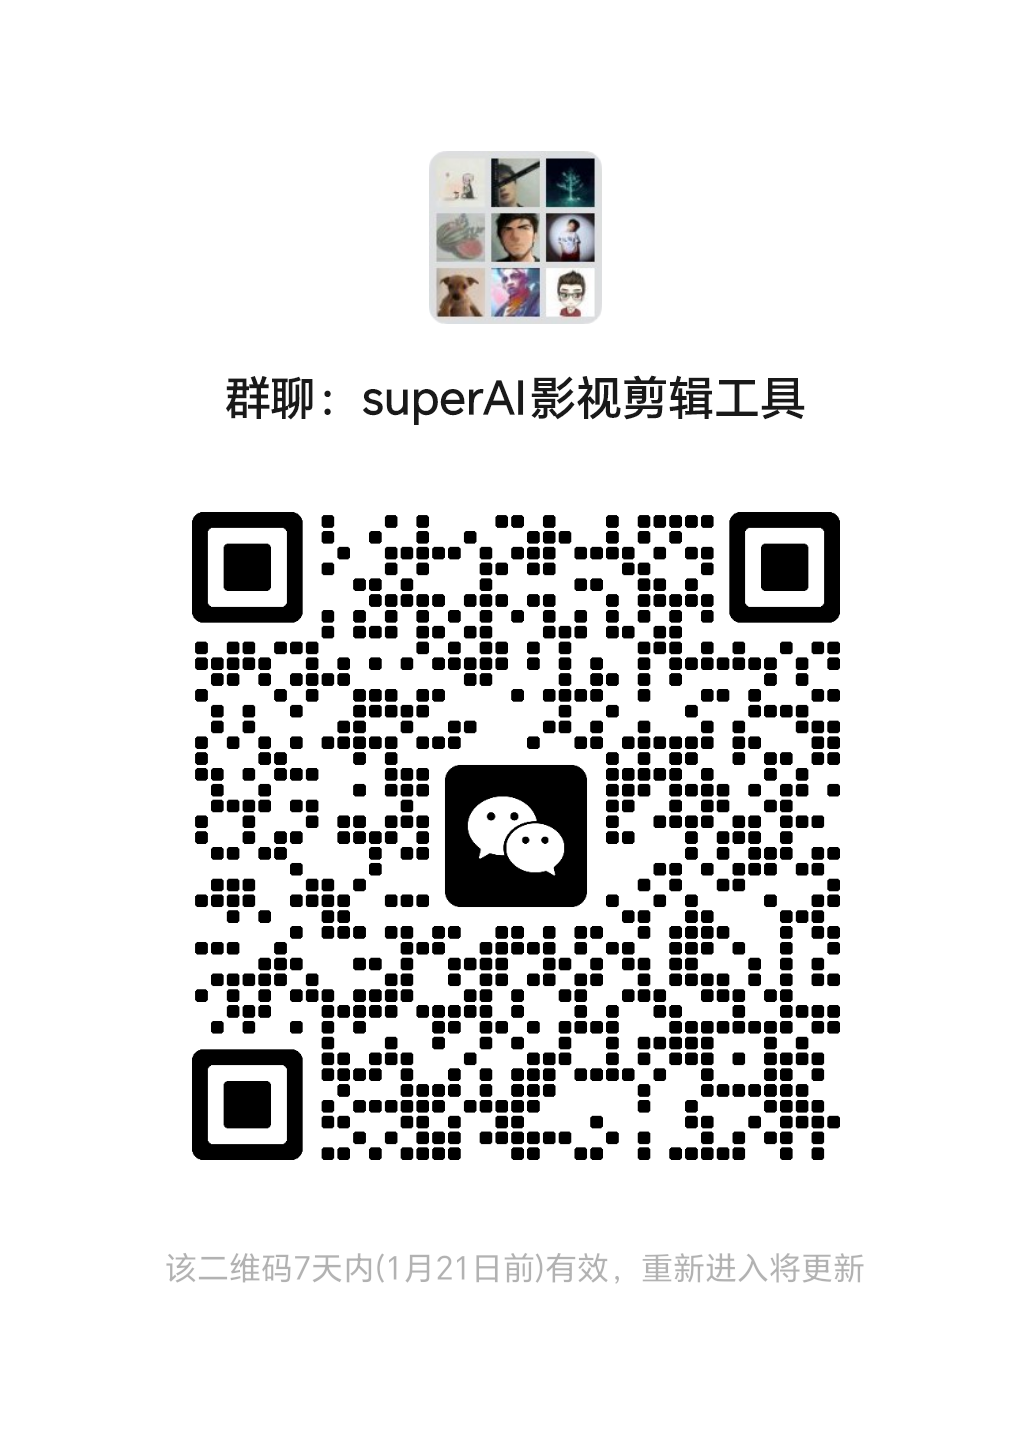
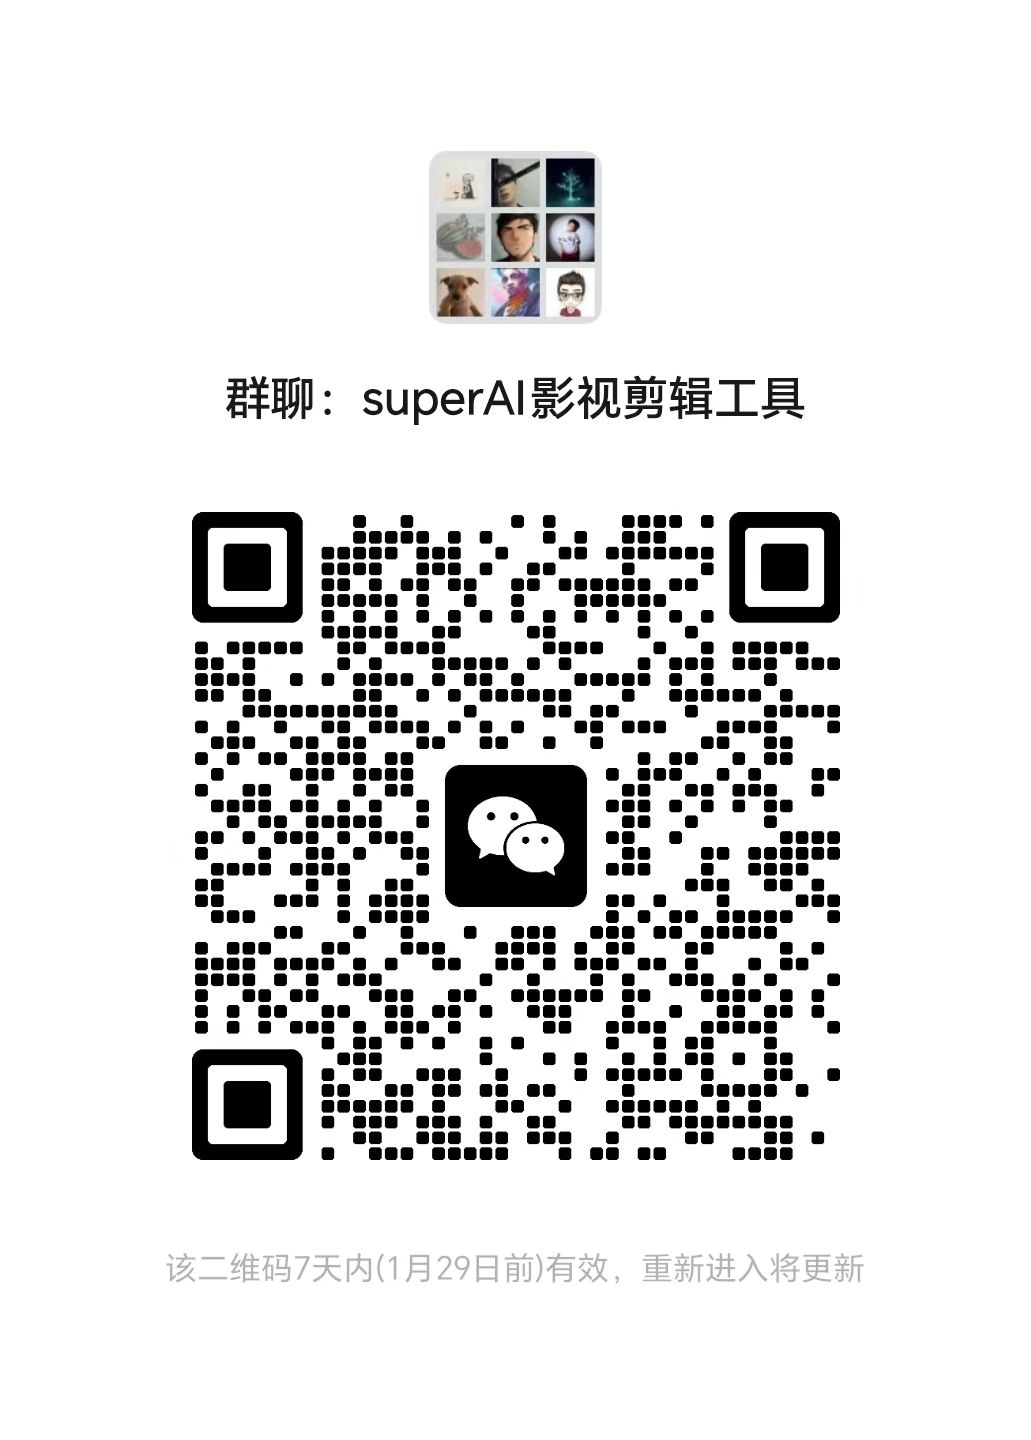
docs: 更新README文档和图片资源
- 添加新功能介绍和已解决问题列表
- 更新微信二维码图片和添加star提示图片
- 完善联系方式部分

Changed region(s): [[0.1862, 0.3438, 0.838, 0.8125]]

diff --git a/README.md b/README.md
@@ -22,8 +22,27 @@
 - 多项目管理：支持创建、切换与独立配置
 
 
+### 添加功能
+1. edge-tts支持英文、错误日志
+2. 可配置（生成脚本条数、解说和原片的占比、生成脚本语言
+
+### 解决问题
+1. 对uploads的垃圾数据进行清理
+2. 缓存目录uploads更新无效的问题
+3. 打开应用启动了两个后端服务，导致更改uploads目录失败问题
+4. 添加可以看到解析的字幕
+5. 添加生成时间
+6. 有时候生成的脚本不更新，一直是初次生成的脚本。
+7. 删除plot_analysis
+8. edge-tts试音添加loading
+9. PC版本不会保存记录，间隔几个小时，打开需要重新配置
+10. 无效片段："start_time": 160.63, "end_time": 160.63,
+
+
 ## 更新计划（持续更新优化中....
 - 添加手动剪辑片头片尾
+- 本地ASR识别字幕、多类型脚本风格
+- 添加index tts
 - 添加影视解说功能
 - 添加 OCR 识别字幕
 - 添加whisper提取字幕
@@ -32,6 +51,9 @@
 ## 文档与支持
 - 打包说明：`docs/打包说明.md`
 
+
+## 帮忙点个star，感谢兄弟一❤❤❤
+<img src="docs/image/addstar.png" alt="帮忙点个star，感谢兄弟" width="300" />
 
 ## 联系方式
 <img src="docs/image/weixinqun.png" alt="微信码" width="160" />
